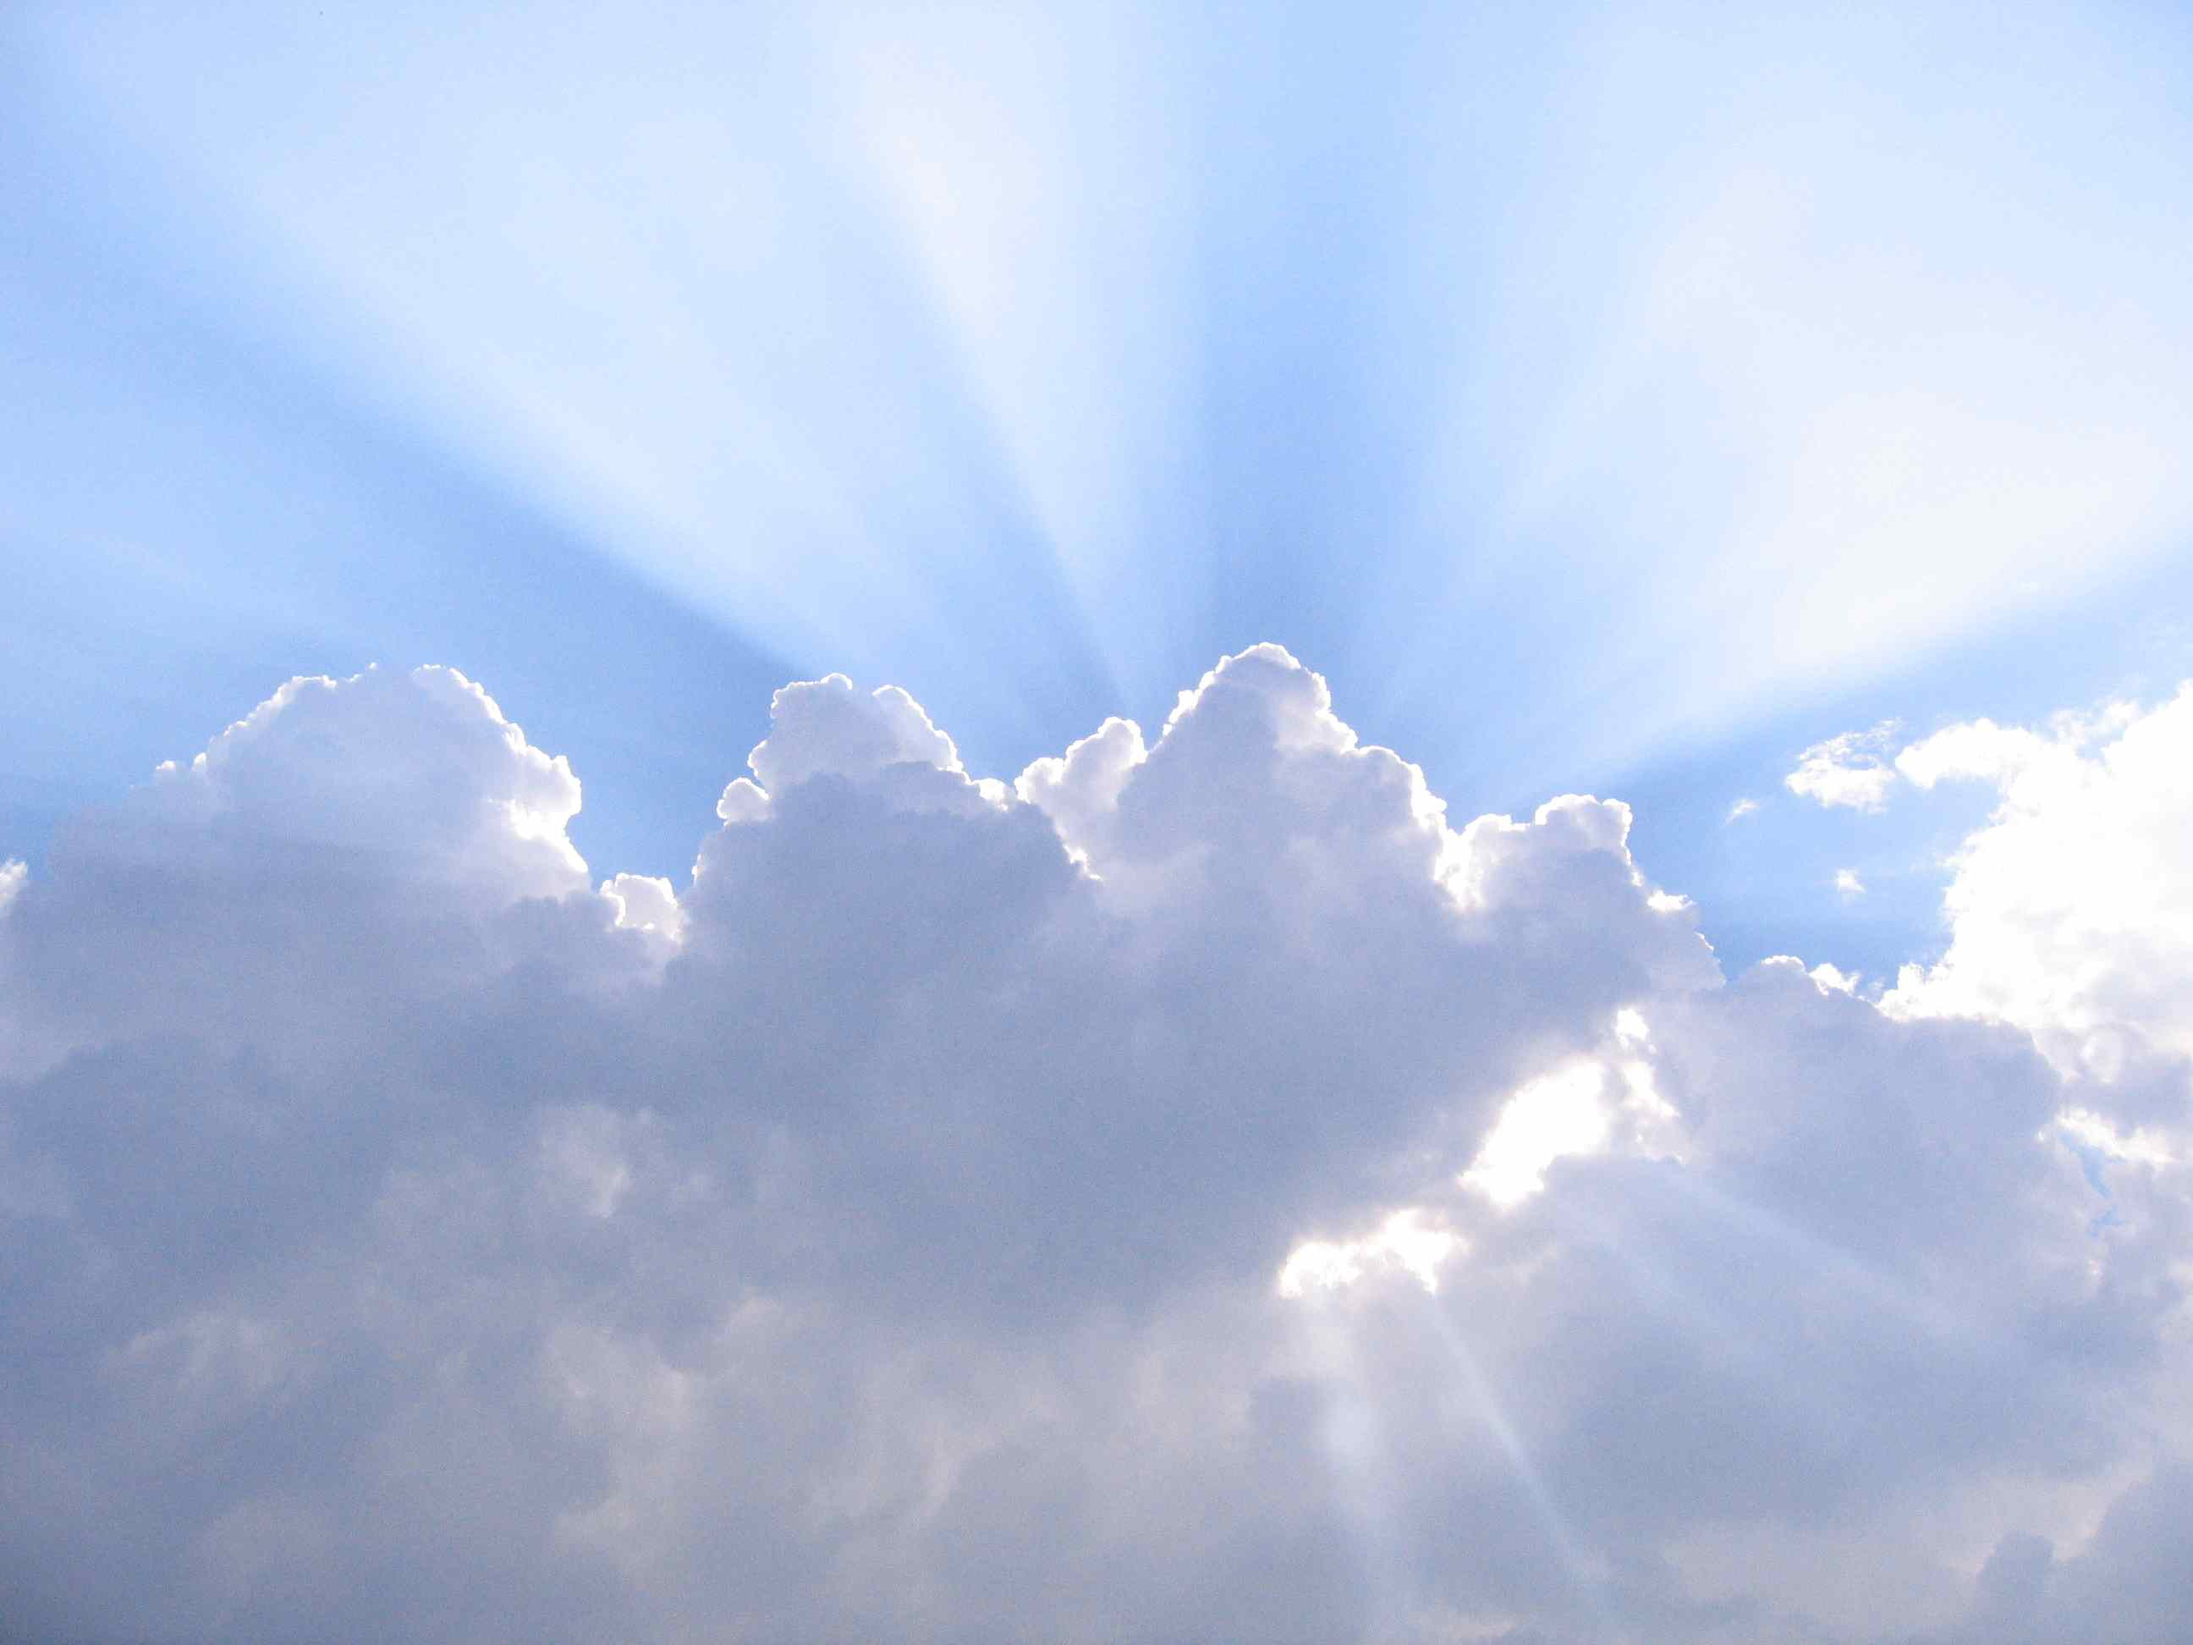
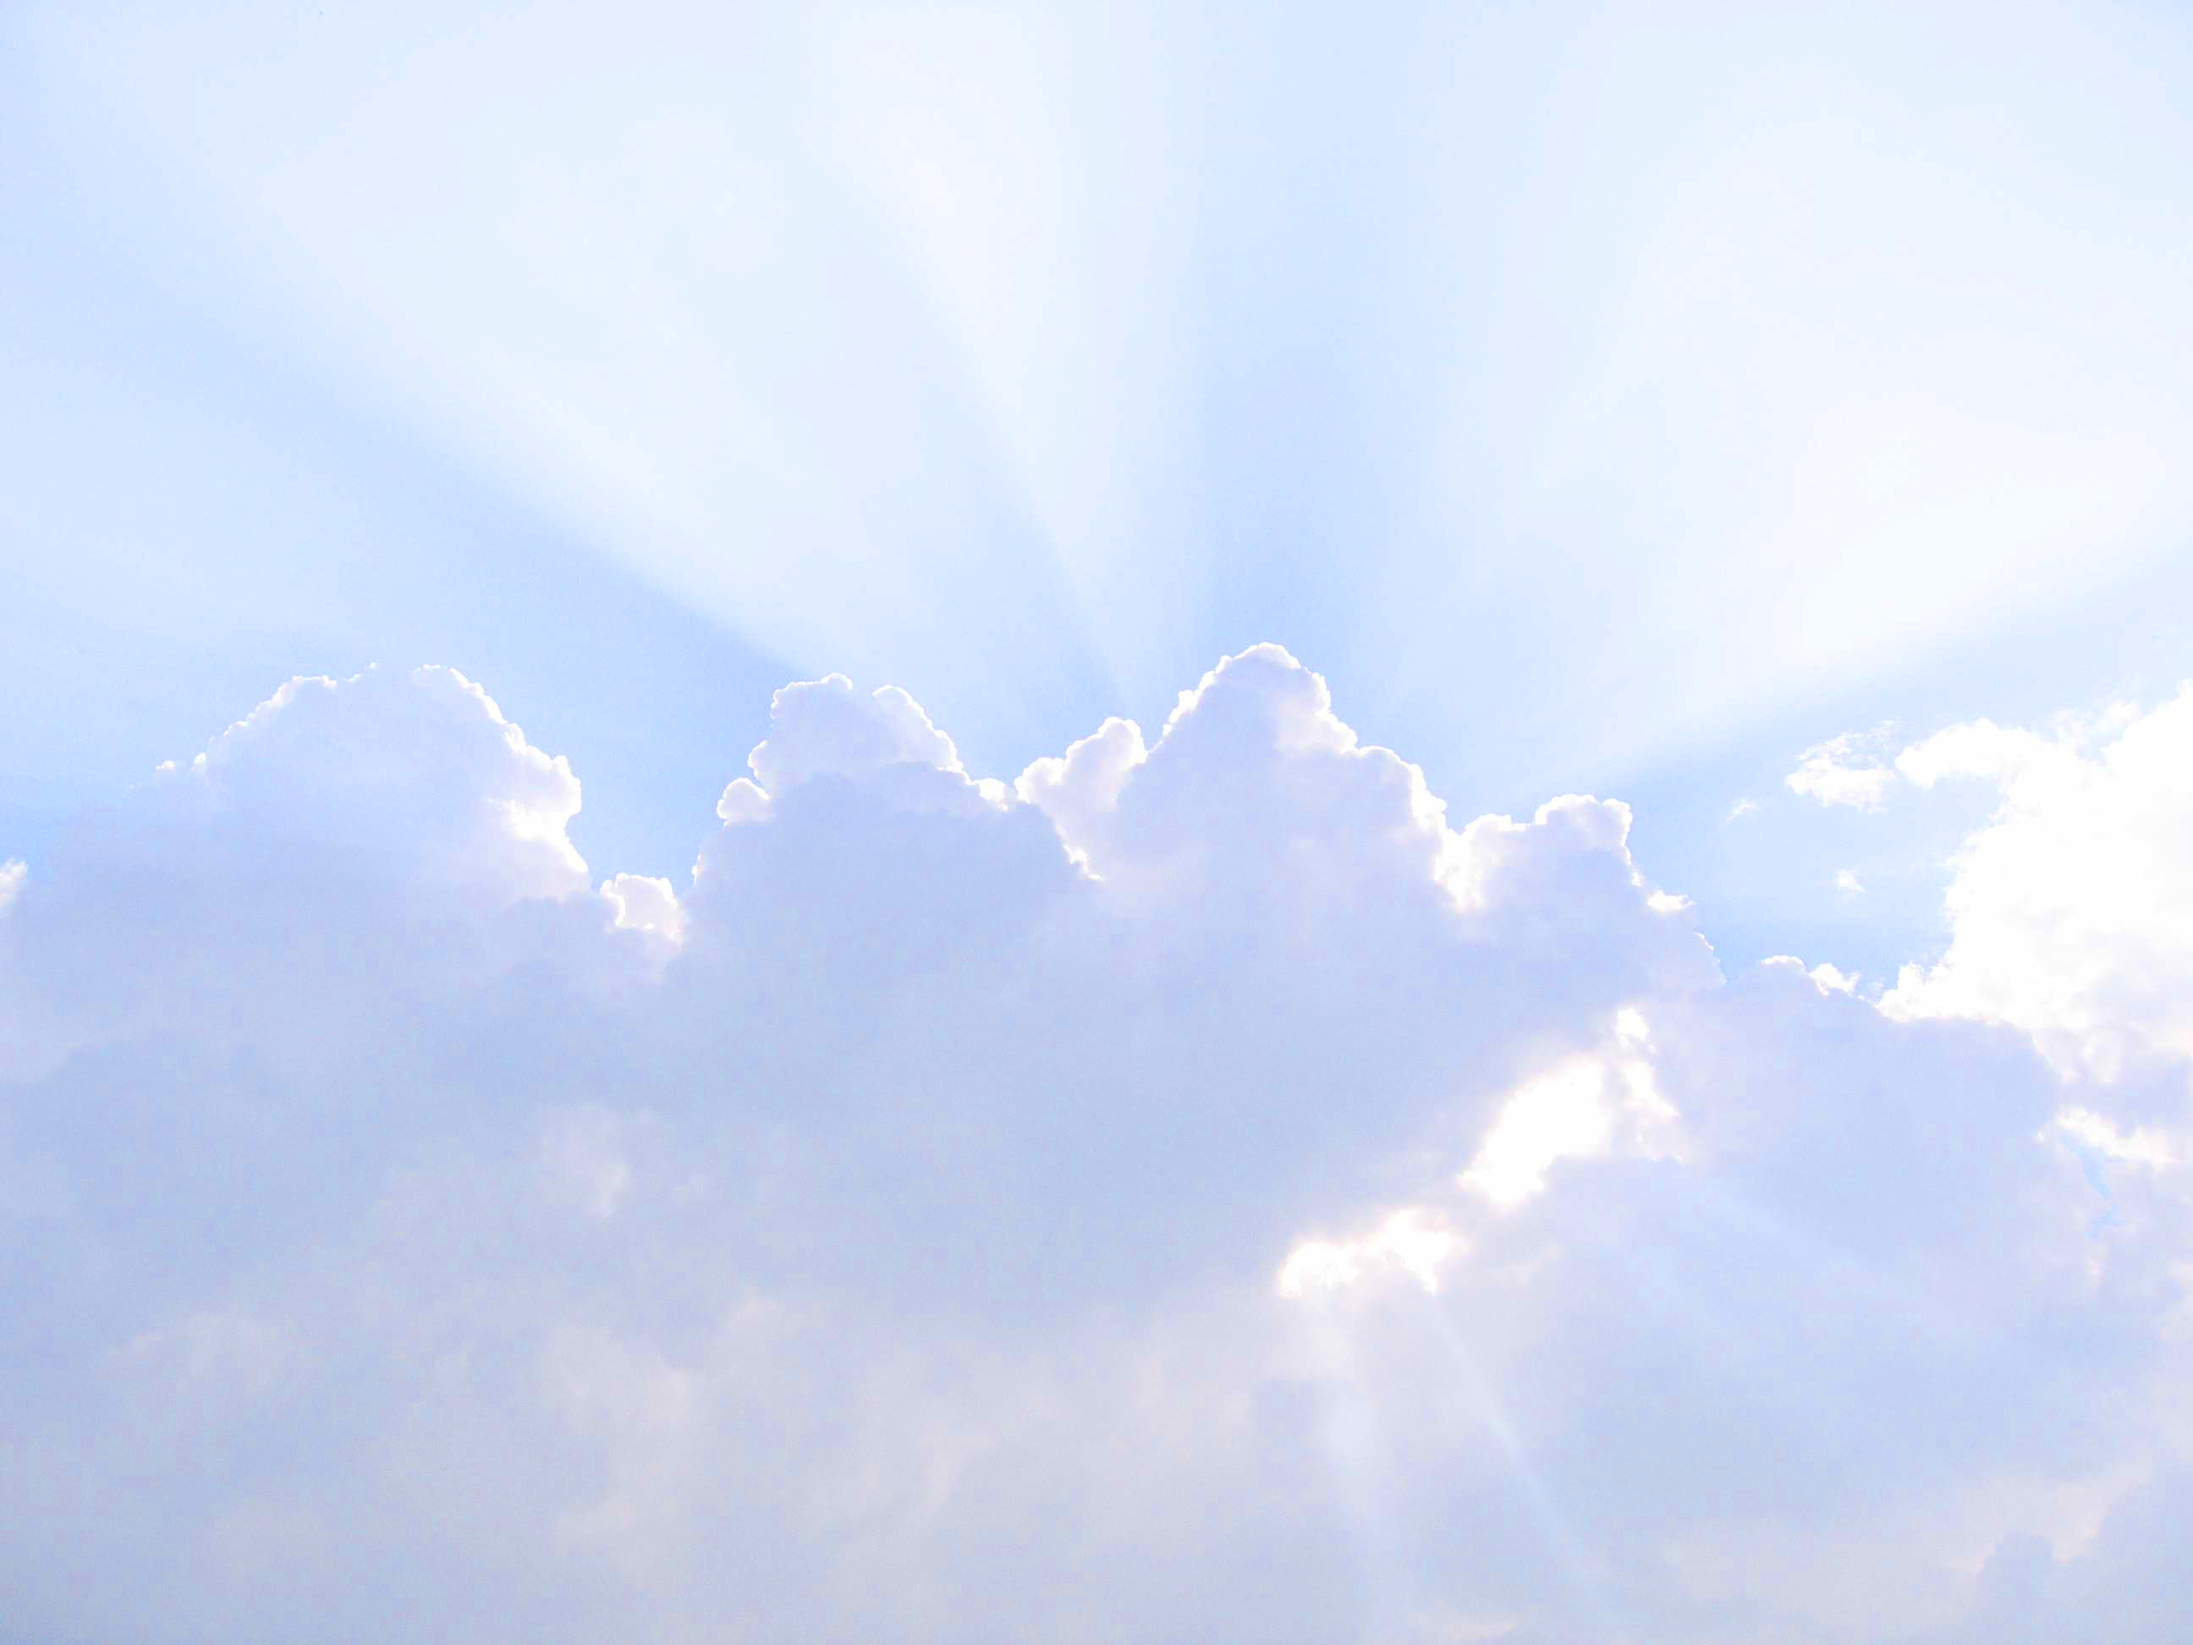
CSS FIX

diff --git a/css/gisto.scss b/css/gisto.scss
@@ -70,8 +70,8 @@
 }
 
 html {
-    background: url(../images/sky.jpg) no-repeat center center fixed #f2f2f2;
-  //background: url('../images/orig1.jpg') no-repeat center center fixed #f2f2f2; /* http://xishan1.deviantart.com */
+  //background: url(../images/sky.jpg) no-repeat center center fixed #f2f2f2;
+  background: url('../images/orig2.jpg') no-repeat center center fixed #f2f2f2; /* http://xishan1.deviantart.com */
   -webkit-background-size: cover;
   -moz-background-size: cover;
   -o-background-size: cover;

diff --git a/features/index.html b/features/index.html
@@ -120,15 +120,7 @@ title: Features | Gisto
             </div>
         </div>
 
-        <div class="row feature-boxes">
-            <div class="w-col w-col-4 w-clearfix feat">
-                <img src="../images/update.png" alt="Gisto"/>
-                <h3>Update Notifier</h3>
 
-                <p>Update notifier will let you know if there is a new version of Gisto.</p>
-            </div>
-        </div>            
-            
             
             
             

diff --git a/css/gisto.css b/css/gisto.css
@@ -49,7 +49,8 @@
   pre {
     text-align: left; } }
 html {
-  background: url(../images/sky.jpg) no-repeat center center fixed #f2f2f2;
+  background: url("../images/orig2.jpg") no-repeat center center fixed #f2f2f2;
+  /* http://xishan1.deviantart.com */
   -webkit-background-size: cover;
   -moz-background-size: cover;
   -o-background-size: cover;
